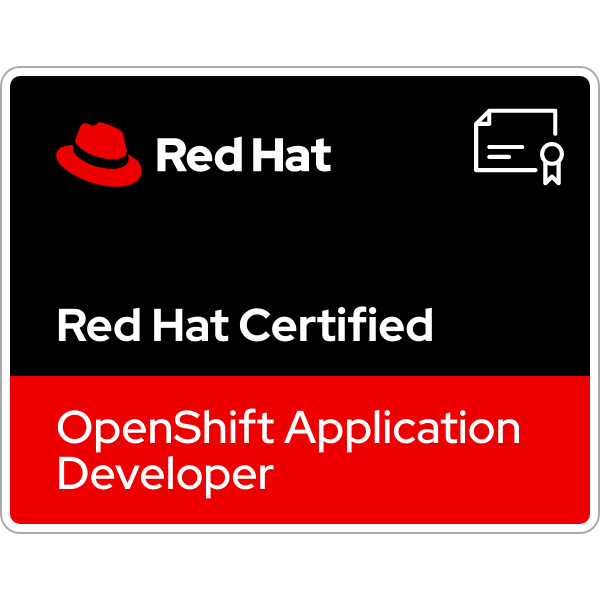
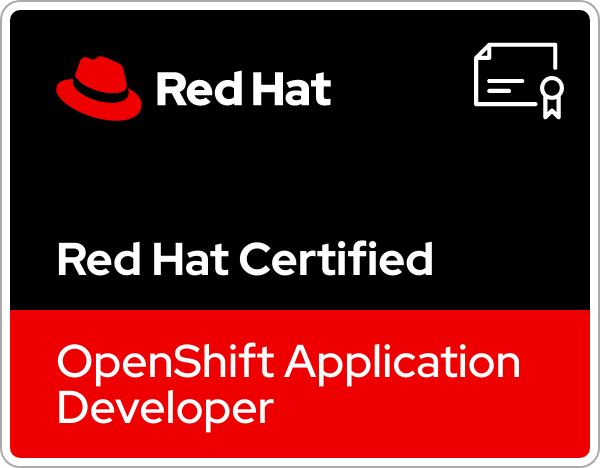
fix badges v2

diff --git a/en.html b/en.html
@@ -29,8 +29,8 @@
 								<li><a href="https://www.linkedin.com/in/sergio-faraldo" class="icon brands fa-linkedin"><span class="label">Linkedin</span></a></li>
 								<li><a href="https://www.gitlab.com/sergio-faraldo" class="icon brands fa-gitlab"><span class="label">Gitlab</span></a></li>
                                                                 <br>
-								<li class="cred"><a href="https://www.credential.net/ce170a7f-3107-4bbd-ad37-545b072ed6ce" class="icon brands" style="display: flex;justify-content: center;"><img src="/assets/css/images/osda.png" alt="OSDA Badge" class="icon brands" style="width: 200%;"><span class="label">Offensive security: OSDA</span></a></li>
-								<li class="cred"><a href="https://www.credly.com/badges/b88b0e54-f4d7-4c5b-8971-966c86d3f1fc/public_url" class="icon brands" style="display: flex;justify-content: center;"><img src="/assets/css/images/rhcert.png" alt="EX288 Badge" class="icon brands" style="width: 200%;"><span class="label">Red Hat Certified OpenShift Application Developer</span></a></li>
+								<li class="cred"><a href="https://www.credential.net/ce170a7f-3107-4bbd-ad37-545b072ed6ce" class="icon brands" style="display: flex;justify-content: center;height: inherit;width: inherit;"><img src="/assets/css/images/osda.png" alt="OSDA Badge" class="icon brands"><span class="label">Offensive security: OSDA</span></a></li>
+								<li class="cred"><a href="https://www.credly.com/badges/b88b0e54-f4d7-4c5b-8971-966c86d3f1fc/public_url" class="icon brands" style="display: flex;justify-content: center;height: inherit;width: inherit;"><img src="/assets/css/images/rhcert.png" alt="EX288 Badge" class="icon brands"><span class="label">Red Hat Certified OpenShift Application Developer</span></a></li>
 							</ul>
 						</nav>
 					</header>

diff --git a/index.html b/index.html
@@ -29,8 +29,8 @@
 								<li><a href="https://www.linkedin.com/in/sergio-faraldo" class="icon brands fa-linkedin"><span class="label">Linkedin</span></a></li>
 								<li><a href="https://www.gitlab.com/sergio-faraldo" class="icon brands fa-gitlab"><span class="label">Gitlab</span></a></li>
                                                                 <br>
-								<li class="cred"><a href="https://www.credential.net/ce170a7f-3107-4bbd-ad37-545b072ed6ce" class="icon brands" style="display: flex;justify-content: center;"><img src="/assets/css/images/osda.png" alt="OSDA Badge" class="icon brands" style="width: 200%;"><span class="label">Offensive security: OSDA</span></a></li>
-								<li class="cred"><a href="https://www.credly.com/badges/b88b0e54-f4d7-4c5b-8971-966c86d3f1fc/public_url" class="icon brands" style="display: flex;justify-content: center;"><img src="/assets/css/images/rhcert.png" alt="EX288 Badge" class="icon brands" style="width: 200%;"><span class="label">Red Hat Certified OpenShift Application Developer</span></a></li>
+								<li class="cred"><a href="https://www.credential.net/ce170a7f-3107-4bbd-ad37-545b072ed6ce" class="icon brands" style="display: flex;justify-content: center;height: inherit;width: inherit;"><img src="/assets/css/images/osda.png" alt="OSDA Badge" class="icon brands"><span class="label">Offensive security: OSDA</span></a></li>
+								<li class="cred"><a href="https://www.credly.com/badges/b88b0e54-f4d7-4c5b-8971-966c86d3f1fc/public_url" class="icon brands" style="display: flex;justify-content: center;height: inherit;width: inherit;"><img src="/assets/css/images/rhcert.png" alt="EX288 Badge" class="icon brands"><span class="label">Red Hat Certified OpenShift Application Developer</span></a></li>
 							</ul>
 						</nav>
 					</header>

diff --git a/assets/css/main.css b/assets/css/main.css
@@ -34,8 +34,8 @@ body {
 	line-height: 1;
 }
 
-li.cred {
-	height: 150px;
+nav li.cred {
+	height: 150px !important;
 }
 
 ol, ul {
